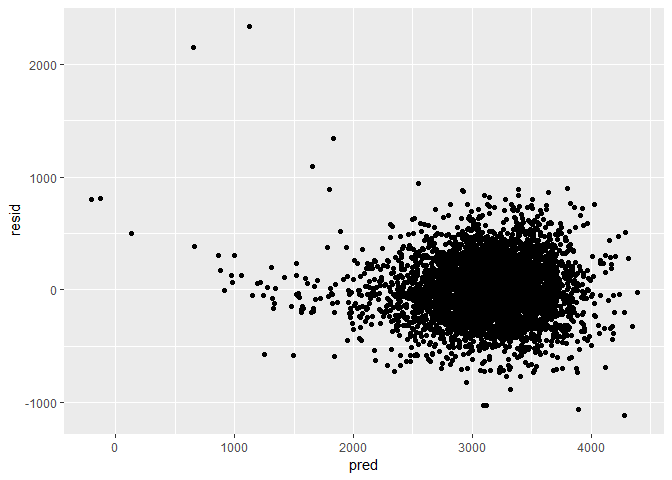
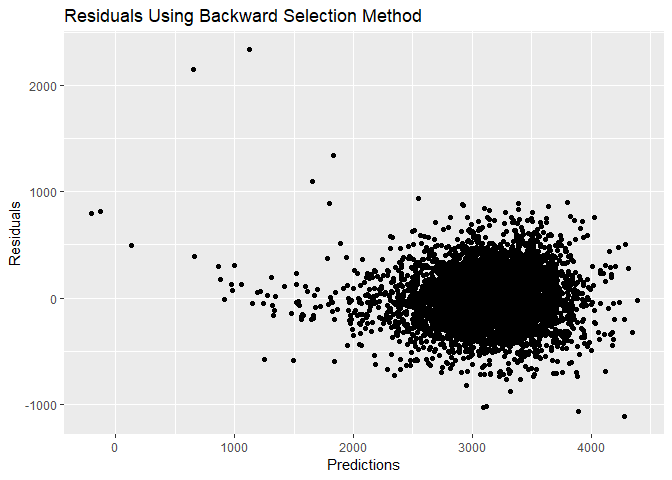
starting comparison

diff --git a/p8105_hw6_as5457.md b/p8105_hw6_as5457.md
@@ -479,7 +479,12 @@ birthweight_model = birthweight %>%
 birthweight %>% 
   modelr::add_predictions(birthweight_model)%>%
   modelr::add_residuals(birthweight_model) %>% 
-  ggplot(aes(x=pred, y = resid)) + geom_point()
+  ggplot(aes(x=pred, y = resid)) + geom_point() +
+  labs (
+    title = "Residuals Using Backward Selection Method",
+        x = "Predictions",
+        y = "Residuals"
+  )
 ```
 
     ## Warning in predict.lm(model, data): prediction from a rank-deficient fit
@@ -489,3 +494,7 @@ birthweight %>%
     ## may be misleading
 
 ![](p8105_hw6_as5457_files/figure-markdown_github/unnamed-chunk-14-1.png)
+
+Compare your model to two others:
+
+One using length at birth and gestational age as predictors (main effects only) One using head circumference, length, sex, and all interactions (including the three-way interaction) between these Make this comparison in terms of the cross-validated prediction error; use crossv\_mc and functions in purrr as appropriate.
